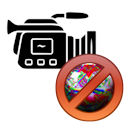
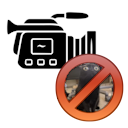
урадены видео вулди раз и два и три и четыре

Changed region(s): [[0.5, 0.4688, 0.8125, 0.7812], [0.5938, 0.5625, 0.9062, 0.9062]]

diff --git a/source/Videos.js b/source/Videos.js
@@ -123,31 +123,87 @@ Ignore_Errors = false
 VIDEOS = [
 	/* ID, Название видео, Дата создания (дата, время), Ссылка, Дата публикации, Длительность видео, Публичность, Теги, Описание */
 	
-	[653, "~", "2026.06.12", "7SdtWFl3wPM", "2026.06.12", "06:11", P_Public,
+	[679, "🔺 | Подборка моих нейро-видео из Sora | 🔻", "2026.04.27 20:43", "v7Qth5dDKuc", "2026.04.27", "1:32:12", P_Public,
+	[T_Woowz11, T_AI, T_Lithuism, T_Glitch, T_Source, T_Wyldi, T_WIP],
+	""],
+	
+	[678, "КУДА ПРОПАЛ PISECHNIK TV? - Обладатель литиевой кнопки, и причём тут религия... 😁", "2025.05.01", "C0iF46RfKKk", "2026.06.12", "22:57", P_Link,
+	[T_INotAuthor, T_Woowz11, T_Wyldi, T_Lithuism, T_WIP],
+	""],
+	
+	[677, "[HD] Tutorial: How to make minecraft mods on assembly 🤔", "2025.06.04", "NIoKvekAW0c", "2026.06.12", "17:46", P_Link,
+	[T_INotAuthor, T_Woowz11, T_Wyldi, T_Lithuism, T_WIP],
+	""],
+	
+	[676, "| ☣ | G01U Gylaet po prospekty DYBAISK and killing PIS.TV | ☣ | #2025 #golu #glitchcore #lithuism ", "2026.01.01", "51ObxJ4DEfg", "2026.06.12", "15:47", P_Link,
+	[T_INotAuthor, T_Woowz11, T_Wyldi, T_Lithuism, T_WIP],
+	""],
+	
+	[675, "~", UNKNOWN_Date, "XsFKFBp6aaY", "2026.06.12", "1:23:26", P_Hide,
+	[T_Woowz11, T_Pavel, T_INotAuthor, T_Backrooms, T_Minecraft, T_WIP],
+	"надо дату найти будет"],
+	
+	[674, "🧅", "2025.06.18", "33n1CONlp70", "2026.06.12", "36:42", P_Hide,
+	[T_INotAuthor, T_Wyldi, T_Glitch, T_WIP],
+	""],
+	
+	[673, "гд2.2 VERSION где 🛐МЕНЯ!! обыскивают на наличие ВЫДРЫ ПАВЛА?? иначе это бы не снять И НЕ СЛЫШНО! xxx", "2024.09.01", "bspLZMXtoUA", "2026.06.12", "42:49", P_Hide,
+	[T_INotAuthor, T_Wyldi, T_Woowz11, T_Minecraft, T_Backrooms, T_WIP],
+	""],
+	
+	[672, "обдумайте SEX woowzsite это будет заблокировано! BACKROOMS XXX", "2024.08.25", "Gvaxr2qpJBg", "2026.06.12", "47:07", P_Hide,
+	[T_INotAuthor, T_Wyldi, T_Woowz11, T_Backrooms, T_Minecraft, T_WIP],
+	""],
+	
+	[671, "стрелялка woowz11 parata4 pasha colab", "2024.01.20", "wJl79QJtap0", "2026.06.12", "28:16", P_Hide,
+	[T_INotAuthor, T_Wyldi, T_Woowz11, T_Pavel, T_Minecraft, T_Backrooms, T_WIP],
+	""],
+	
+	[670, "woowz11 moment funny sex vidio 1444 жесть расчленёнка backrooms", "2024.01.19", "YTbc8WWRwF0", "2026.06.12", "13:50", P_Hide,
+	[T_INotAuthor, T_Woowz11, T_Wyldi, T_Backrooms, T_Minecraft, T_WIP],
+	""],
+	
+	[659, "DONTrassist spange))))))) ЮТУБ ОДОБРЕННО✅✅", "2024.12.28", "5yUGHpQfGeA", "2026.06.12", "03:10", P_Hide,
+	[T_INotAuthor, T_Wyldi, T_WIP],
+	""],
+	
+	[658, "WOOWZ11 2 OMGERS BOBS", "2024.01.18", "hh_SC9EelTI", "2026.06.12", "22:51", P_Hide,
+	[T_INotAuthor, T_Wyldi, T_Woowz11, T_Backrooms, T_Minecraft, T_WIP],
+	""],
+	
+	[657, "BondiCUM wooowz12 apalpe papalpale pepe pepa apope", "2024.01.18", "AQkxEQg5VV8", "2026.06.12", "09:09", P_Hide,
+	[T_INotAuthor, T_Woowz11, T_Wyldi, T_Backrooms, T_Minecraft, T_WIP],
+	""],
+	
+	[656, "he wanted, he got", "2025.06.12", "thY5qQhcpOA", "2026.06.12", "00:57", P_Hide,
+	[T_INotAuthor, T_Wyldi, T_WIP, T_Lithuism],
+	""],
+	
+	[653, "Russia's Secret Weapon EXPOSED ! Dumbass Domination Strategy", "2026.06.12", "7SdtWFl3wPM", "2026.06.12", "06:11", P_Public,
 	[T_Woowz11, T_WIP, T_INotAuthor, T_Skrepka],
 	""],
 	
-	[652, "~", "2025.02.19", "j8BgLolnv7s", "2026.06.12", "00:21", P_Hide,
+	[652, "ТАМ ОН КРЧ ДОЕБАЛ!🔥 НЕГРА 💯 Respect 100% 🔥🔥🔥 #spongebob #funny #spongebobsquarepants #minecraft 😁😁🔥🔥", "2025.02.19", "j8BgLolnv7s", "2026.06.12", "00:21", P_Hide,
 	[T_INotAuthor, T_Shorts, T_WIP, T_Wyldi],
 	""],
 	
-	[651, "~", "2025.02.19", "vqlXt5OT86g", "2026.06.12", "00:49", P_Hide,
+	[651, "МЕНЯ ВЫРВАЛО НА СПАНЧБОБА ПИСЯ, Я БЫ ЕМУ Ты умер)🤔 #spongebob #memes #мем #мемы #прикол #прикол #мем", "2025.02.19", "vqlXt5OT86g", "2026.06.12", "00:49", P_Hide,
 	[T_INotAuthor, T_Shorts, T_WIP, T_Wyldi],
 	""],
 	
-	[650, "~", "2025.01.14", "GGMLaaADbmI", "2026.06.12", "00:15", P_Hide,
+	[650, "мы добавили МУЛЬТИПЛЕЕР в ИГРУ!! Свой майнкрафт😎😋", "2025.01.14", "GGMLaaADbmI", "2026.06.12", "00:15", P_Hide,
 	[T_Woowz11, T_WIP, T_INotAuthor, T_Wyldi],
 	""],
 	
-	[649, "~", "2025.07.20", "8_t2h4gRBaQ", "2026.06.12", "00:24", P_Hide,
+	[649, "Новое интро мармока", "2025.07.20", "8_t2h4gRBaQ", "2026.06.12", "00:24", P_Hide,
 	[T_WIP, T_INotAuthor, T_Wyldi],
 	""],
 	
-	[648, "~", "2025.01.17", "ArgVE-00TKk", "2026.06.12", "01:30", P_Hide,
-	[T_Woowz11, T_WIP, T_INotAuthor, T_Wyldi],
+	[648, "Писечник крутиться на протяжении полторы минуты", "2025.01.17", "ArgVE-00TKk", "2026.06.12", "01:30", P_Public,
+	[T_Woowz11, T_WIP, T_INotAuthor, T_Wyldi, T_Music, T_Lithuism],
 	""],
 	
-	[647, "~", "2024.01.19", "6-oq2yXxKvM", "2026.06.12", "01:22", P_Hide,
+	[647, "wowz11 mament partucka 1 woowz 11 woz11 svo", "2024.01.19", "6-oq2yXxKvM", "2026.06.12", "01:22", P_Hide,
 	[T_Woowz11, T_WIP, T_INotAuthor, T_Minecraft, T_Backrooms, T_Wyldi],
 	"ebr"],
 	

diff --git a/GOLUWorld2/game.js b/GOLUWorld2/game.js
@@ -1,14 +1,54 @@
+const Update_Render = function(DT){
+    UpdateDebug(DT)
+}
+
+const Update_Game = function(){
+
+}
+
+// ----------------------------------------------------------------------
+
 const StartGame = function(){
     const StartGlobalRender = function(){
         __ResizeCanvas()
 
+        let     __LastTime = performance.now()
+        let __GameLastTime = performance.now()
+
+        let __GameAccumulator = 0
+        const GAME_STEP = 1/30
         let Render = function(){
-            GlobalRender()
+            const Now = performance.now()
+
+            GW2.Render.DT = (Now - __LastTime) / 1000
+            GW2.Render.FPS = Math.round(1 / GW2.Render.DT)
+
+            __LastTime = Now
+
+            __GameAccumulator += GW2.Render.DT
+            while(__GameAccumulator >= GAME_STEP){
+                const GameNow = performance.now()
+
+                GW2.Game.DT = (GameNow - __GameLastTime) / 1000
+                GW2.Game.FPS = Math.round(1 / GW2.Game.DT)
+
+                __GameLastTime = GameNow
+
+                Update_Game()
+                __GameAccumulator -= GAME_STEP
+            }
+
+            GlobalRender(GW2.Render.DT)
+
+            Update_Render(GW2.Render.DT)
+
             requestAnimationFrame(Render)
         }
         Render()
     }
     StartGlobalRender()
+
+    document.title = GW2.Info.Name
 }
 
 StartGame()

diff --git a/GOLUWorld2/debug.js b/GOLUWorld2/debug.js
@@ -1,0 +1,28 @@
+let Debug = document.getElementById("debug")
+
+let __Fields = new Map()
+
+let Set = function(ID, HTML){
+    let Field = __Fields.get(ID)
+    if(!Field){
+        Field = document.createElement("div")
+        Debug.appendChild(Field)
+
+        __Fields.set(ID, Field)
+    }
+    Field.innerHTML = HTML
+}
+
+let __Timer = Infinity
+const UpdateDebug = function(DT){
+    if(__Timer > 0.25){
+        Set(0, `R-FPS: ${Math.floor(GW2.Render.FPS)} ${GW2.Render.DT}`)
+        Set(1, `G-FPS: ${Math.floor(GW2.Game.FPS)} ${GW2.Game.DT}`)
+
+        __Timer = 0
+    }
+
+    __Timer += DT
+
+    Set(2, `Mouse: ${Math.round(GW2.Input.Mouse.X)}:${Math.round(GW2.Input.Mouse.Y)}`)
+}

diff --git a/GOLUWorld2/game.html b/GOLUWorld2/game.html
@@ -14,16 +14,38 @@
         height         : 100VH;
         overflow       : hidden;
     }
-    canvas{
+    #render{
         border: 2px solid black;
         background: black;
+        line-height: 0;
+        padding: 0;
+    }
+    #debug{
+        position: absolute;
+        top: 0;
+        left: 0;
+        width: 100%;
+        height: 100%;
+        pointer-events: none;
+        font-family: 'Consolas', 'Courier New', monospace;
+        font-size: 14px;
+        color: #ff0000;
+        text-shadow: 0 0 4px rgba(0, 0, 0, 0.9), 0 0 8px rgba(0, 0, 0, 0.9);
+        padding: 10px;
+        box-sizing: border-box;
+        overflow: hidden;
+        z-index: 10;
     }
     </style>
 </head>
 
 <body>
+    <div id="render"></div>
+    <div id="debug"></div>
+
     <script src="bootstrap.js"></script>
     <script src="render.js"></script>
+    <script src="debug.js"></script>
     <script src="game.js"></script>
 </body>
 

diff --git a/MyVideos.html b/MyVideos.html
@@ -5,7 +5,8 @@
 
 <style>
 *{
-	font-family: "Arial", sans-serif;
+	font-family: "Roboto", "Arial", sans-serif;
+	font-weight: 400;
 	box-sizing: border-box;
 	cursor: default;
 }
@@ -91,10 +92,10 @@ body{
 }
 
 #Content{
-	width: 900px;
+	width: 1200px;
 	display: flex;
 	flex-direction: column;
-	gap: 10px;
+	gap: 3px;
 	margin-block: 10px;
 }
 
@@ -115,7 +116,9 @@ body{
 }
 
 .VideoPanel a:not(.URL):not(.ContentURL){
-	display: inline-block;
+	display: inline-flex;
+	align-items: center;
+	justify-content: center;
 	text-decoration: none;
 	color: #fff;
 	background-color: rgba(0, 123, 255, 1);
@@ -140,7 +143,9 @@ body{
 }
 
 .SmallPanel{
-	display: inline-block;
+	display: inline-flex;
+	align-items: center;
+	justify-content: center;
 	padding: 2px 6px;
 	background-color: rgba(0, 0, 0, 0.15);
 	color: white;
@@ -471,7 +476,7 @@ function UpdateContent(VideosList){
 			var WatchURL = "https://youtu.be/" + YoutubeID;
 			var EditURL  = "https://studio.youtube.com/video/" + YoutubeID + "/edit";
 
-			const Height = "21px";
+			const Height = "28px";
 
 			var TagsHTML = "";
 			for(var j = 0; j < Tags.length; j++){
@@ -1028,6 +1033,13 @@ function Search(){
 					return new Date(A[4]) - new Date(B[4]);
 				}else if(SortMethod === "duration"){
 					const ToSeconds = T => {
+						if(T === UNKNOWN_Duration || T === DEFAULT_Duration){
+							return Infinity;
+						}
+						if(T === REALZERO_Duration){
+							return 0;
+						}
+					
 						const P = T.split(":").map(Number);
 						if(P.length === 2){ return P[0] * 60 + P[1]; }
 						return P[0] * 3600 + P[1] * 60 + P[2];

diff --git a/GOLUWorld2/bootstrap.js b/GOLUWorld2/bootstrap.js
@@ -1,4 +1,8 @@
 const GW2 = {
+    Info: {
+      Name: "GOLU World 2"
+    },
+
     Render: {
         /** @type HTMLCanvasElement */
         Canvas: null,
@@ -8,7 +12,10 @@ const GW2 = {
         W: -1,
         H: -1,
 
-        Scale: 4
+        Scale: 4,
+
+        FPS: -1,
+        DT: -1
     },
 
     Input: {
@@ -16,6 +23,11 @@ const GW2 = {
             X: -1,
             Y: -1
         }
+    },
+
+    Game: {
+        FPS: -1,
+        DT: -1
     }
 }
 
@@ -27,7 +39,7 @@ let __CreateSite = function(){
 
         Canvas.style.imageRendering  = "pixelated"
 
-        document.body.appendChild(Canvas)
+        document.getElementById("render").appendChild(Canvas)
 
         return Canvas
     }
@@ -47,6 +59,7 @@ let __CreateSite = function(){
 }
 __CreateSite()
 
+let __RenderElement = document.getElementById("render")
 let __ResizeCanvas = function(){
     let W = window.innerWidth
     let H = window.innerHeight
@@ -68,7 +81,7 @@ let __ResizeCanvas = function(){
     GW2.Render.Canvas.width  = GW2.Render.W
     GW2.Render.Canvas.height = GW2.Render.H
 
-    GW2.Render.Canvas.style.transform = `scale(${GW2.Render.Scale})`
+    __RenderElement.style.transform = `scale(${GW2.Render.Scale})`
 
     if(GW2.Render.GL){
         GW2.Render.GL.viewport(0, 0, GW2.Render.W, GW2.Render.H)

diff --git a/GOLUWorld2/render.js b/GOLUWorld2/render.js
@@ -31,8 +31,6 @@ void main(){
         color = vec3(1.0, 0.0, 0.0);
     }
     
-    
-    
     float angle = Time * 1.2;
     float radius = 100.0;
     vec2 circlePos = center + vec2(cos(angle), sin(angle)) * radius;
@@ -55,7 +53,6 @@ void main(){
     vec2 grid = abs(fract(p / 4.0) - 0.5);
     float gridLine = min(grid.x, grid.y);
     color *= (0.85 + 0.15 * smoothstep(0.0, 0.3, gridLine));
-    
     
     gl_FragColor = vec4(color, 1.0);
 }
@@ -203,7 +200,7 @@ let U_Mouse      = RegisterUniform("Mouse"     , [0, 0])
 // ----------------------------------------------------------------------
 
 let __StartTime = performance.now()
-const GlobalRender = function(){
+const GlobalRender = function(DT){
     const Time = (performance.now() - __StartTime) / 1000
 
     U_Time(Time)